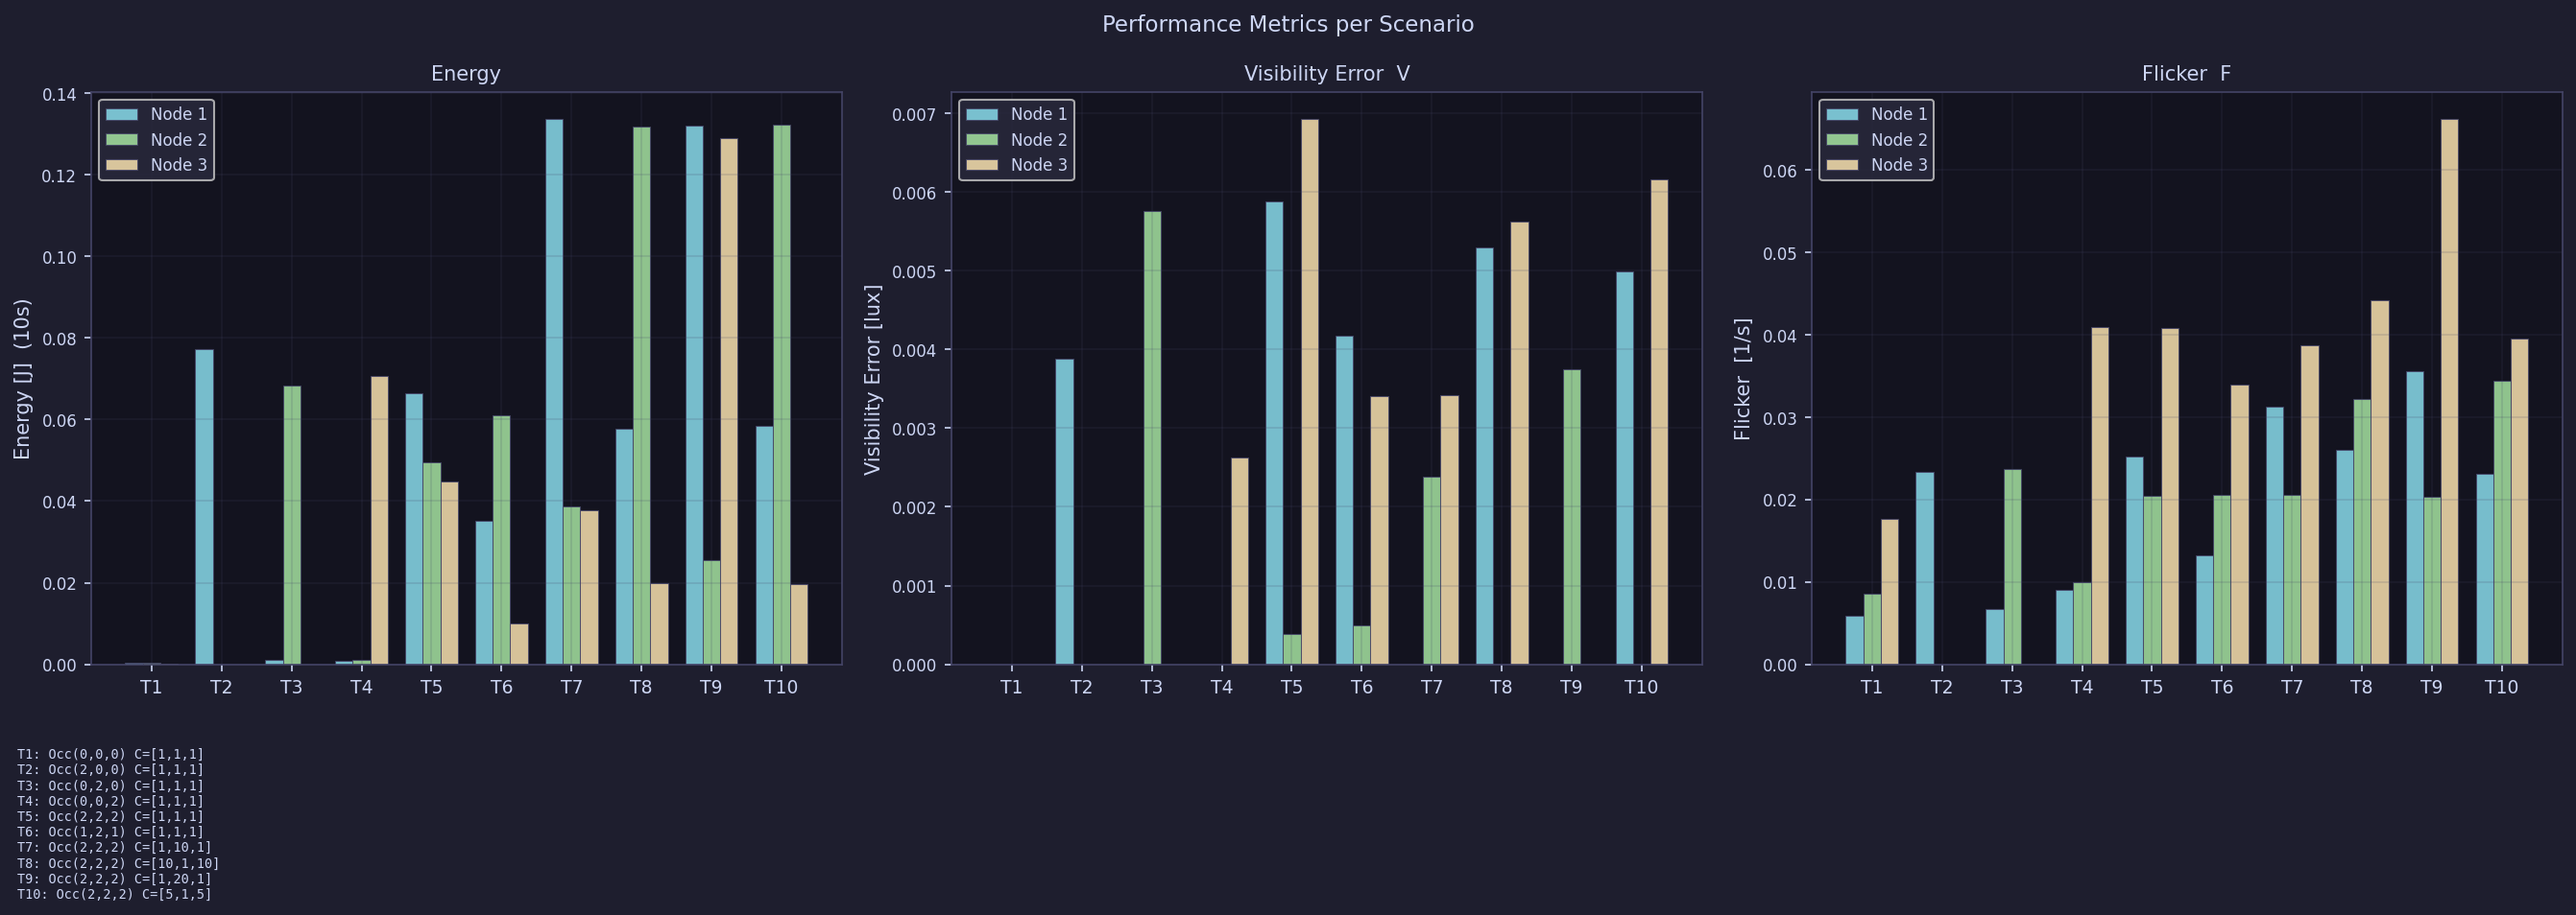
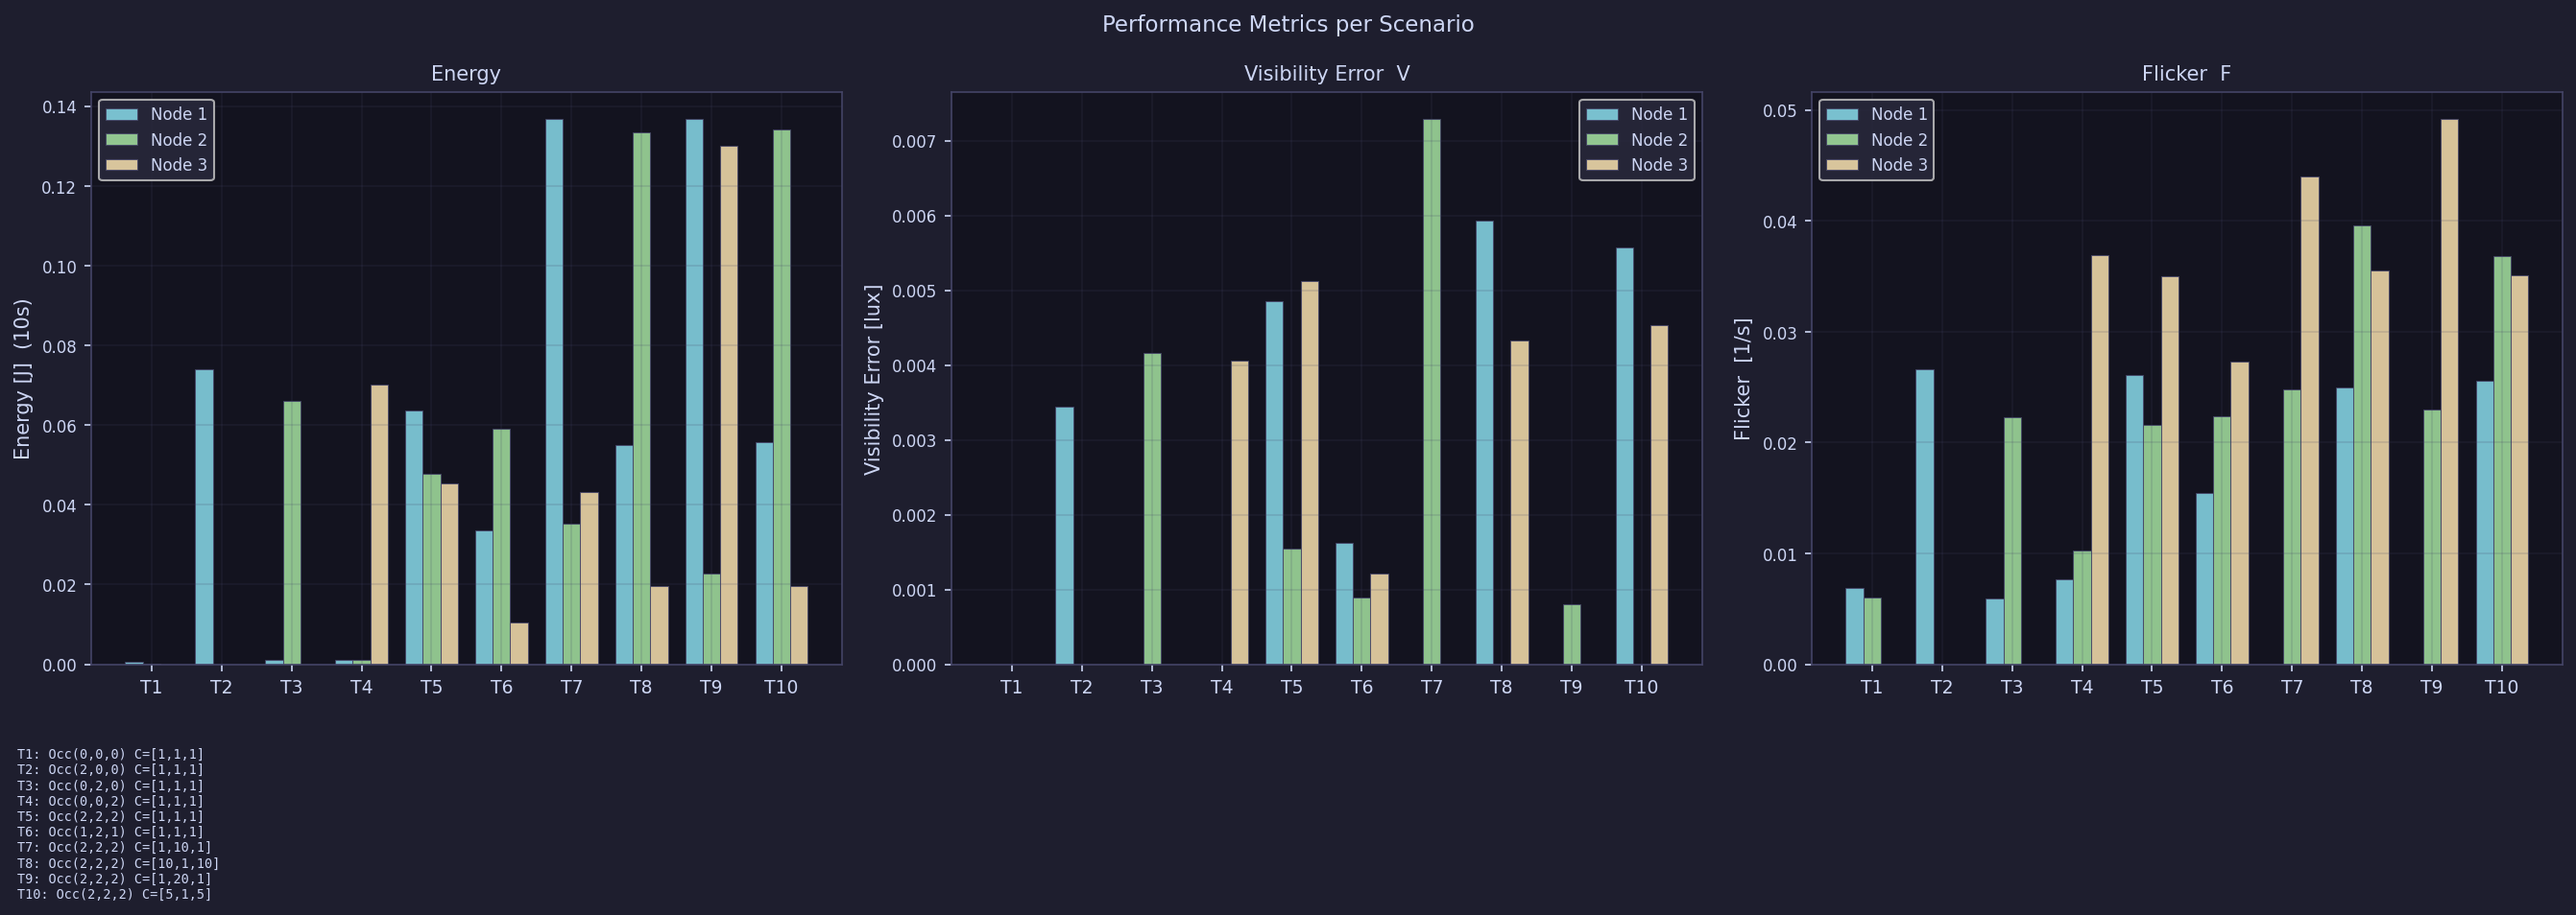
Transition to standard ADMM: removed C1b and added consensus clamping; expanded test suite with baseline and disturbance rejection tests

diff --git a/test_suite.py b/test_suite.py
@@ -643,13 +643,17 @@ def plot_timeseries(results, out_dir):
             node_res = r['nodes'].get(nid)
             if node_res:
                 data = node_res['stream']
+                col = PAL[nid - 1]
                 if data and data['t_lux']:
-                    axes[0].plot(data['t_lux'], data['lux'], label=f"Node {nid}  occ={node_res['occ']}  c={node_res['cost']}", alpha=0.9)
-        
-        axes[0].axhline(20, color=RED, lw=0.9, ls='--', alpha=0.6, label='ref_high=20')
-        axes[0].axhline(10, color=ORG, lw=0.9, ls='--', alpha=0.6, label='ref_low=10')
+                    axes[0].plot(data['t_lux'], data['lux'], color=col, lw=1.2,
+                                 label=f"Node {nid}  occ={node_res['occ']}  c={node_res['cost']}",
+                                 alpha=0.9)
+                L = node_res.get('L', 0)
+                if L > 0:
+                    axes[0].axhline(L, color=col, lw=0.9, ls='--', alpha=0.5,
+                                    label=f"L{nid}={L:.0f} lux")
         axes[0].set_ylabel("Illuminance [lux]", color=FG)
-        axes[0].set_title("LUX (dashed = lower bounds 10 / 20)", fontsize=9, color=FG)
+        axes[0].set_title("LUX (dashed = lower bound L per node)", fontsize=9, color=FG)
         axes[0].legend(loc='upper right', fontsize=8, facecolor=DARK, labelcolor=FG)
         axes[0].grid(True, color=GRID, alpha=0.3)
         axes[0].tick_params(colors=FG)
@@ -661,7 +665,8 @@ def plot_timeseries(results, out_dir):
             if node_res:
                 data = node_res['stream']
                 if data and data['t_duty']:
-                    axes[1].plot(data['t_duty'], data['duty'], label=f"Node {nid}", alpha=0.9)
+                    axes[1].plot(data['t_duty'], data['duty'], color=PAL[nid - 1],
+                                 lw=1.2, label=f"Node {nid}", alpha=0.9)
         axes[1].set_ylabel("Duty Cycle", color=FG)
         axes[1].set_xlabel("Time [s]", color=FG)
         axes[1].set_ylim(-0.05, 1.05)
@@ -676,6 +681,240 @@ def plot_timeseries(results, out_dir):
         plt.close(fig)
         print(f"  Saved: {fname}")
 
+
+
+def run_baseline(occs: dict, label: str) -> dict:
+    """
+    Non-coordinated control: PI only, reference set directly from occupancy.
+    No ADMM is triggered. Used as a comparison baseline.
+    """
+    REF_HIGH = 20.0
+    REF_LOW  = 10.0
+    SETTLE_S = 8.0
+
+    for nid in range(1, N_NODES + 1):
+        ref = REF_HIGH if occs[nid] == 2 else (REF_LOW if occs[nid] == 1 else 0.0)
+        send(nid, f"r {nid} {ref}")
+    time.sleep(SETTLE_S)
+
+    L_vals = {n.node_id: n.query('L') for n in nodes if n.node_id}
+    e0     = {n.node_id: n.query('E') for n in nodes if n.node_id}
+
+    stream = collect(COLLECT_S)
+
+    e1 = {n.node_id: n.query('E') for n in nodes if n.node_id}
+
+    result = {'label': label, 'occ': tuple(occs[i] for i in range(1, 4)),
+              'costs': (1, 1, 1), 'nodes': {}}
+
+    cal_params_local = {}
+    for n in nodes:
+        if n.node_id:
+            G, d = parse_cal_params(n)
+            cal_params_local[n.node_id] = (G, d)
+
+    for nid in range(1, N_NODES + 1):
+        d_ss  = stream.get(nid, {'lux': [], 'duty': [], 't_lux': [], 't_duty': []})
+        lux_ss, duty_ss = steady_state_mean(d_ss)
+        G, d_bg = cal_params_local.get(nid, (1.0, 0.0))
+        L = L_vals.get(nid) or 0.0
+        E_s, V_s, F_s = compute_metrics(d_ss['lux'], d_ss['duty'], L, d_bg, G)
+        result['nodes'][nid] = {
+            'lux_ss': lux_ss, 'duty_ss': duty_ss,
+            'E': E_s, 'V': V_s, 'F': F_s, 'L': L,
+            'stream': d_ss, 'occ': occs[nid], 'cost': 1,
+        }
+    return result
+
+
+def plot_comparison(admm_result: dict, baseline_result: dict, out_dir: str):
+    """2×2 grid: LUX and duty for ADMM (left) vs PI-only (right)."""
+    fig, axes = plt.subplots(2, 2, figsize=(16, 9), sharex='col')
+    fig.patch.set_facecolor(DARK)
+    fig.suptitle(
+        f"Coordinated (ADMM) vs Non-coordinated (PI only)  —  {admm_result['label']}",
+        color=FG, fontsize=12)
+
+    col_data = [admm_result, baseline_result]
+    col_titles = ["ADMM (coordinated)", "PI only (non-coordinated)"]
+
+    for col, (res, title) in enumerate(zip(col_data, col_titles)):
+        ax_lux  = axes[0][col]
+        ax_duty = axes[1][col]
+        ax_lux.set_facecolor(PANEL)
+        ax_duty.set_facecolor(PANEL)
+        _style(ax_lux)
+        _style(ax_duty)
+
+        total_E = 0.0
+        sum_V   = 0.0
+        sum_F   = 0.0
+        n_nodes = 0
+
+        for i, nid in enumerate(range(1, N_NODES + 1)):
+            nd  = res['nodes'].get(nid, {})
+            d   = nd.get('stream', {})
+            col_c = PAL[i]
+
+            if d.get('t_lux') and d.get('lux'):
+                t0 = d['t_lux'][0]
+                t  = [x - t0 for x in d['t_lux']]
+                ax_lux.plot(t, d['lux'], color=col_c, lw=1.2,
+                            label=f"Node {nid}  occ={nd.get('occ',0)}  c={nd.get('cost',1)}")
+            L = nd.get('L', 0)
+            if L > 0:
+                ax_lux.axhline(L, color=col_c, lw=0.9, ls='--', alpha=0.5,
+                               label=f"L{nid}={L:.0f} lux")
+
+            if d.get('t_duty') and d.get('duty'):
+                t0 = d['t_duty'][0]
+                t  = [x - t0 for x in d['t_duty']]
+                ax_duty.plot(t, d['duty'], color=col_c, lw=1.2, label=f"Node {nid}")
+
+            total_E += nd.get('E', 0)
+            sum_V   += nd.get('V', 0)
+            sum_F   += nd.get('F', 0)
+            n_nodes += 1
+
+        mean_V = sum_V / max(n_nodes, 1)
+        mean_F = sum_F / max(n_nodes, 1)
+        summary = f"E={total_E:.4f} J\nV={mean_V:.4f} lux\nF={mean_F:.4f} /s"
+        ax_lux.text(0.97, 0.97, summary, transform=ax_lux.transAxes,
+                    fontsize=7.5, va='top', ha='right', color=FG,
+                    bbox=dict(facecolor='#2a2a3e', alpha=0.7, edgecolor=GRID, pad=3))
+
+        ax_lux.set_title(title, fontsize=10, color=FG)
+        ax_lux.set_ylabel("Illuminance [lux]" if col == 0 else "", color=FG)
+        ax_lux.set_ylim(bottom=0)
+        _legend(ax_lux)
+
+        ax_duty.set_ylabel("Duty Cycle" if col == 0 else "", color=FG)
+        ax_duty.set_xlabel("Time [s]", color=FG)
+        ax_duty.set_ylim(-0.05, 1.1)
+        _legend(ax_duty)
+
+    plt.tight_layout()
+    path = os.path.join(out_dir, "plot_comparison_coordinated_vs_baseline.png")
+    fig.savefig(path, dpi=150, bbox_inches='tight', facecolor=DARK)
+    plt.close(fig)
+    print(f"  Saved: {path}")
+
+
+def run_disturbance_test(disturber_nid: int, out_dir: str):
+    """
+    Disturbance rejection test.
+    Assumes all nodes are already in coordinated (ADMM) steady state.
+
+    Timeline:
+      0 – 5 s   : steady-state collection
+      5 – 11 s  : disturber duty forced to 0.8 (feedback off)
+      11 – 17 s : feedback restored on disturber, PI recovers
+    """
+    print("\n" + "=" * 60)
+    print(f"  DISTURBANCE REJECTION TEST  (disturber = Node {disturber_nid})")
+    print("=" * 60)
+
+    T_STEADY  = 5.0
+    T_DISTURB = 6.0
+    T_RECOVER = 6.0
+    t_disturb_rel = T_STEADY
+    t_restore_rel = T_STEADY + T_DISTURB
+
+    # Clear buffers and start streaming manually
+    for n in nodes:
+        n.lux_buf.clear()
+        n.duty_buf.clear()
+    for n in nodes:
+        if n.node_id:
+            n.write(f"s y {n.node_id}")
+            n.write(f"s u {n.node_id}")
+
+    # Phase 1: steady state
+    print(f"  Collecting {T_STEADY:.0f}s steady state…")
+    time.sleep(T_STEADY)
+
+    # Phase 2: apply disturbance (disable feedback → force duty)
+    print(f"  Disturbance ON — Node {disturber_nid} duty → 0.8")
+    send(disturber_nid, f"f {disturber_nid} 0")
+    time.sleep(0.05)
+    send(disturber_nid, f"u {disturber_nid} 0.8")
+    time.sleep(T_DISTURB)
+
+    # Phase 3: restore feedback
+    print(f"  Disturbance OFF — restoring feedback on Node {disturber_nid}")
+    send(disturber_nid, f"f {disturber_nid} 1")
+    time.sleep(T_RECOVER)
+
+    # Stop streaming
+    for n in nodes:
+        if n.node_id:
+            n.write(f"S y {n.node_id}")
+            n.write(f"S u {n.node_id}")
+    time.sleep(0.3)
+
+    # Read buffers
+    stream = {}
+    for n in nodes:
+        if n.node_id:
+            with n.lock:
+                stream[n.node_id] = {
+                    't_lux':  [x[0] for x in n.lux_buf],
+                    'lux':    [x[1] for x in n.lux_buf],
+                    't_duty': [x[0] for x in n.duty_buf],
+                    'duty':   [x[1] for x in n.duty_buf],
+                }
+
+    L_vals = {n.node_id: (n.query('L') or 0.0) for n in nodes if n.node_id}
+
+    # Plot
+    fig, axes = plt.subplots(2, 1, figsize=(13, 8), sharex=True)
+    fig.patch.set_facecolor(DARK)
+    fig.suptitle(
+        f"Disturbance Rejection — Node {disturber_nid} duty forced to 0.8 at t≈{t_disturb_rel:.0f}s",
+        color=FG, fontsize=12)
+
+    for ax in axes:
+        _style(ax)
+
+    for i, nid in enumerate(range(1, N_NODES + 1)):
+        d   = stream.get(nid, {})
+        col = PAL[i]
+        if d.get('t_lux') and d.get('lux'):
+            t0 = d['t_lux'][0]
+            t  = [x - t0 for x in d['t_lux']]
+            axes[0].plot(t, d['lux'], color=col, lw=1.2, label=f"Node {nid}")
+            L = L_vals.get(nid, 0.0)
+            if L > 0:
+                axes[0].axhline(L, color=col, lw=0.8, ls='--', alpha=0.5,
+                                label=f"L{nid}={L:.0f} lux")
+        if d.get('t_duty') and d.get('duty'):
+            t0 = d['t_duty'][0]
+            t  = [x - t0 for x in d['t_duty']]
+            axes[1].plot(t, d['duty'], color=col, lw=1.2, label=f"Node {nid}")
+
+    for ax in axes:
+        ax.axvline(t_disturb_rel, color=RED, lw=1.2, ls='--', alpha=0.8,
+                   label=f"disturbance on (t={t_disturb_rel:.0f}s)")
+        ax.axvline(t_restore_rel, color=ORG, lw=1.2, ls='--', alpha=0.8,
+                   label=f"disturbance off (t={t_restore_rel:.0f}s)")
+
+    axes[0].set_ylabel("Illuminance [lux]")
+    axes[0].set_title("LUX — dashed horizontal = lower bound L, dashed vertical = disturbance events",
+                      fontsize=9)
+    axes[0].set_ylim(bottom=0)
+    _legend(axes[0])
+
+    axes[1].set_ylabel("Duty Cycle")
+    axes[1].set_xlabel("Time [s]")
+    axes[1].set_title("Duty Cycles", fontsize=9)
+    axes[1].set_ylim(-0.05, 1.1)
+    _legend(axes[1])
+
+    plt.tight_layout()
+    path = os.path.join(out_dir, "plot_disturbance_rejection.png")
+    fig.savefig(path, dpi=150, bbox_inches='tight', facecolor=DARK)
+    plt.close(fig)
+    print(f"  Saved: {path}")
 
 
 def run_convergence_study(out_dir, results):
@@ -811,10 +1050,14 @@ def run_convergence_study(out_dir, results):
                 axes[1].plot(t, d['duty'],
                              color=PAL[i], lw=1.2, label=f'Node {nid}')
 
-        axes[0].axhline(20, color=RED, lw=0.9, ls='--', alpha=0.6, label='ref_high=20')
-        axes[0].axhline(10, color=ORG, lw=0.9, ls='--', alpha=0.6, label='ref_low=10')
+        for i, nid in enumerate([1, 2, 3]):
+            nd = sc['nodes'].get(nid, {})
+            L = nd.get('L', 0)
+            if L > 0:
+                axes[0].axhline(L, color=PAL[i], lw=0.9, ls='--', alpha=0.5,
+                                label=f"L{nid}={L:.0f} lux")
         axes[0].set_ylabel('Illuminance [lux]')
-        axes[0].set_title('LUX (dashed = lower bounds 10 / 20)', fontsize=9)
+        axes[0].set_title('LUX (dashed = lower bound L per node)', fontsize=9)
         axes[0].set_ylim(bottom=0)
         _legend(axes[0])
 
@@ -947,6 +1190,38 @@ if __name__ == "__main__":
     plot_metrics(results, out_dir)
     plot_timeseries(results, out_dir)
 
+    # ── 8. Non-coordinated baseline comparison ─────────────────────────────
+    print("\nRunning non-coordinated baseline for comparison…")
+    # Reset costs to uniform before baseline so the comparison is fair
+    for nid in range(1, N_NODES + 1):
+        send(nid, f"C {nid} 1")
+    time.sleep(0.3)
+
+    baseline_all_high = run_baseline({1: 2, 2: 2, 3: 2}, "PI-only Occ(2,2,2)")
+
+    admm_all_high = next(
+        (r for r in results if r['label'] == "Occ(2,2,2) C=[1,1,1]"), None)
+
+    if admm_all_high:
+        plot_comparison(admm_all_high, baseline_all_high, out_dir)
+    else:
+        print("  [skip] plot_comparison — Occ(2,2,2) C=[1,1,1] result not found")
+
+    # ── 9. Disturbance rejection test ──────────────────────────────────────
+    print("\nRunning disturbance rejection test…")
+    # Re-establish coordinated steady state before probing disturbance rejection
+    for nid in range(1, N_NODES + 1):
+        send(nid, f"o {nid} 2")
+    time.sleep(0.3)
+    for n in nodes:
+        n.admm_done = False
+    send(1, "T")
+    wait_admm(ADMM_WAIT_S)
+    time.sleep(3)
+
+    run_disturbance_test(disturber_nid=2, out_dir=out_dir)
+
+    # ── 10. Convergence study ───────────────────────────────────────────────
     run_convergence_study(out_dir, results)
     print(f"\n✓ Done. Plots saved to: {out_dir}")
     print("Files: plot_steady_state_occupancy.png  plot_cost_comparison.png"

diff --git a/main/admm.cpp b/main/admm.cpp
@@ -310,20 +310,6 @@ bool admm_tick()
         for (int j = 1; j <= ADMM_N; j++)
             u_unc[j] = (1.0f / ADMM_RHO) * z_i[j];
 
-        // Clamp non-own duty estimates to [0,1].
-        // Each u[j] for j≠LUMINAIRE is an estimate of node j's physical duty cycle,
-        // which cannot leave [0,1]. Without clamping, after many iterations the dual
-        // variables λ drive z[j]/ρ to large negative values, making predicted_lux()
-        // artificially negative and causing ALL candidates (including C3 at own duty=1)
-        // to appear infeasible. The fix is to clamp peers before feasibility evaluation.
-        auto clamp_peers = [](float u[])
-        {
-            for (int j = 1; j <= ADMM_N; j++)
-                if (j != LUMINAIRE)
-                    u[j] = constrain(u[j], 0.0f, 1.0f);
-        };
-        clamp_peers(u_unc);
-
         if (feasible(u_unc))
         {
             for (int j = 1; j <= ADMM_N; j++)
@@ -337,7 +323,6 @@ bool admm_tick()
 
             auto try_cand = [&](float cand[])
             {
-                clamp_peers(cand);
                 if (!feasible(cand))
                     return;
                 float c = qp_cost(cand, z_i);
@@ -356,28 +341,6 @@ bool admm_tick()
                 for (int j = 1; j <= ADMM_N; j++)
                     u_c1[j] = (1.0f / ADMM_RHO) * z_i[j] - admm_k[j] * f;
                 try_cand(u_c1);
-
-                // C1b: peers clamped to [0,1], own duty set to minimum that still
-                // meets the illuminance constraint.  Needed when the C1 formula
-                // places a peer component above 1 (physically impossible); after
-                // clamping, illuminance drops below L and C1 is declared infeasible,
-                // forcing a wasteful fallback to C3 (own duty = 1).  C1b avoids this
-                // by fixing peers at their physical maximum and solving the 1-D
-                // problem for the minimum own duty.
-                {
-                    float cross = 0.0f;
-                    for (int j = 1; j <= ADMM_N; j++)
-                        if (j != LUMINAIRE)
-                            cross += admm_k[j] * constrain(u_c1[j], 0.0f, 1.0f);
-                    float min_own = (admm_k[LUMINAIRE] > 1e-6f)
-                                    ? (admm_L - admm_d_bg - cross) / admm_k[LUMINAIRE]
-                                    : 1.0f;
-                    float u_c1b[ADMM_N + 1];
-                    for (int j = 1; j <= ADMM_N; j++)
-                        u_c1b[j] = constrain(u_c1[j], 0.0f, 1.0f);
-                    u_c1b[LUMINAIRE] = constrain(min_own, 0.0f, 1.0f);
-                    try_cand(u_c1b);
-                }
             }
             {
                 float u_c2[ADMM_N + 1];
@@ -499,7 +462,7 @@ bool admm_tick()
             float sum = 0.0f;
             for (int i = 1; i <= ADMM_N; i++)
                 sum += admm_recv[i][j];
-            admm_u_avg[j] = sum / ADMM_N;
+            admm_u_avg[j] = constrain(sum / ADMM_N, 0.0f, 1.0f);
         }
 
         for (int j = 1; j <= ADMM_N; j++)
